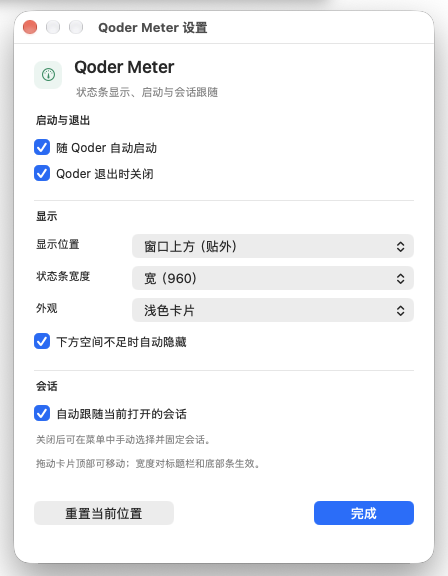
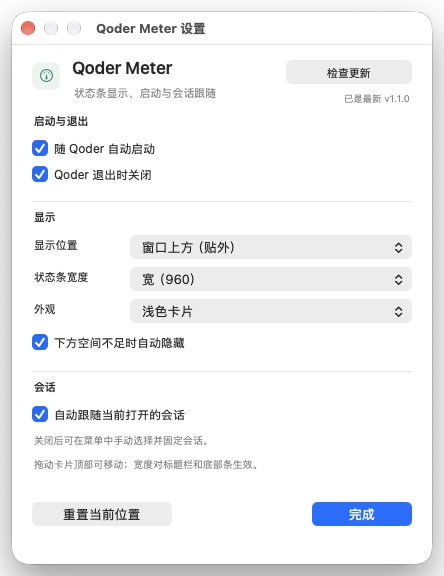
Refresh settings screenshot for the update checker

diff --git a/README.md b/README.md
@@ -20,7 +20,7 @@ Qoder Meter 是一个轻量的 macOS 菜单栏/浮窗工具，用只读方式读
     </td>
     <td align="center" width="50%">
       <img src="docs/screenshots/settings.png" width="330" alt="设置窗口"><br>
-      <sub>独立设置窗口（浮在 Qoder 之上）</sub>
+      <sub>独立设置窗口（含版本检查，浮在 Qoder 之上）</sub>
     </td>
   </tr>
 </table>
@@ -101,6 +101,8 @@ open QoderMeter.app
 ```
 
 `install.sh` 会构建并复制到 `~/Applications/QoderMeter.app`，然后启动。
+
+也可以从 [Releases](https://github.com/chenleshu/qoder-meter/releases) 下载打包好的应用。
 
 > 本项目使用 ad-hoc 本地签名，没有经过 Apple 公证。如果 macOS 首次阻止打开，请在“系统设置 → 隐私与安全性”中允许，或右键应用选择“打开”。
 
